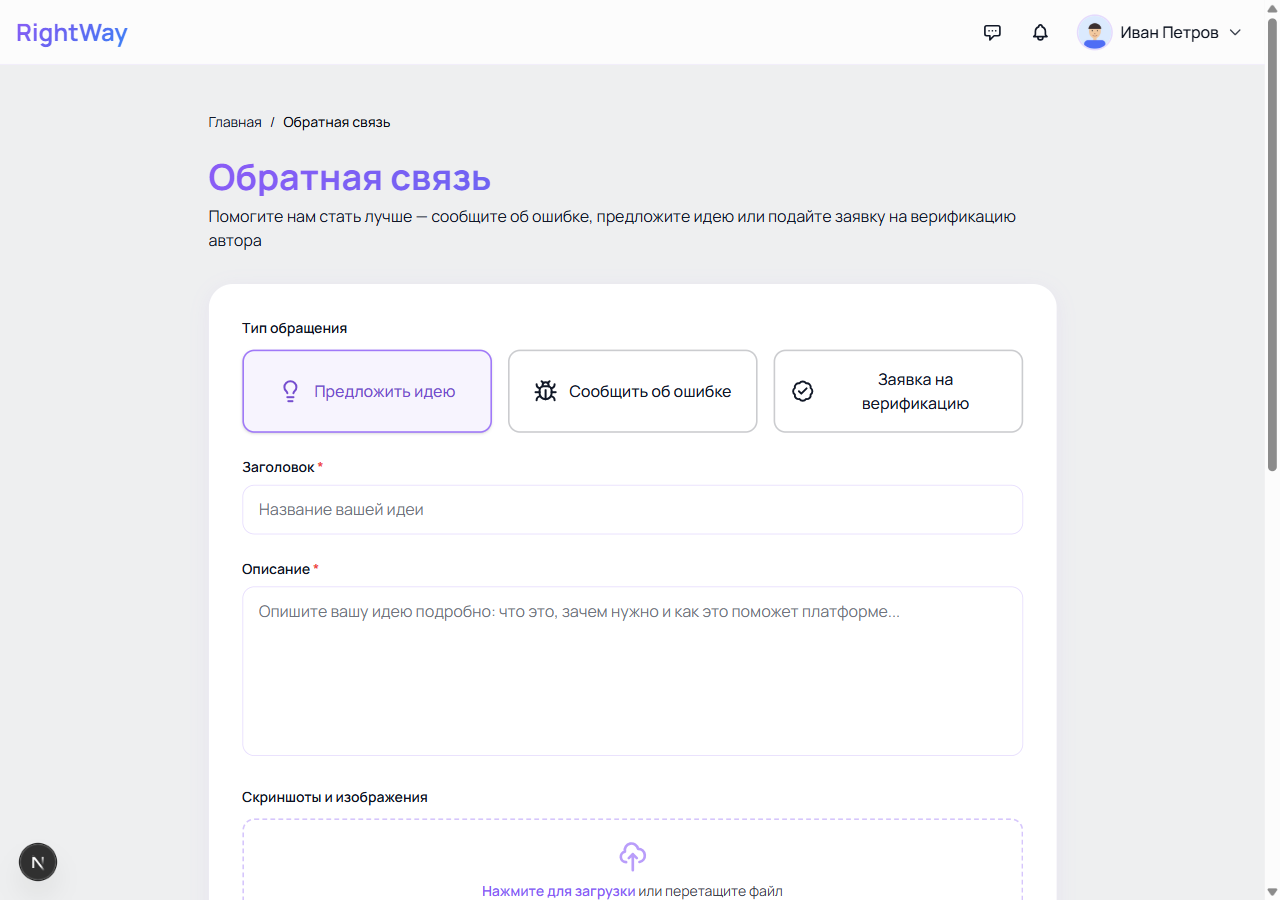
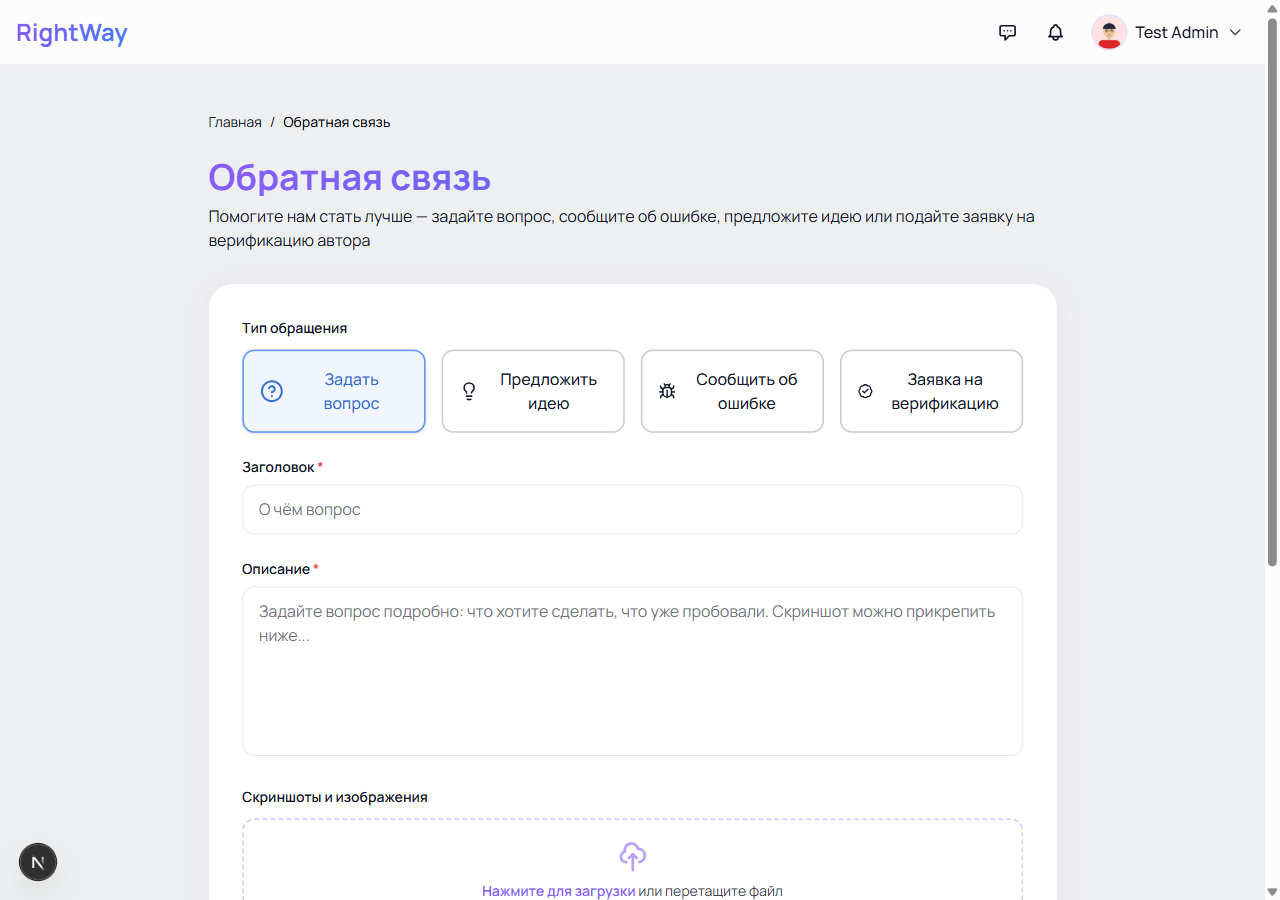
Новый тип обращения «Вопрос»: 4-я кнопка в /feedback (?type=question), бейдж в админке (blueFill), миграция feedback_type_check, сценарий «Задать вопрос» в Справочнике + пересняты скрины формы

diff --git a/app/feedback/page.tsx b/app/feedback/page.tsx
@@ -10,7 +10,7 @@ import { Button } from '@/components/ui/Button'
 import { Badge } from '@/components/ui/Badge'
 import { Input, Textarea, Label } from '@/components/ui/Input'
 import type { BadgeProps } from '@/components/ui/Badge'
-import { BadgeCheck, Bug, Lightbulb, Pencil, Trash2 } from 'lucide-react'
+import { BadgeCheck, Bug, HelpCircle, Lightbulb, Pencil, Trash2 } from 'lucide-react'
 import { Card } from '@/components/ui/Card'
 
 // Статусы и подписи — как в админке (/admin/feedback), чтобы пользователь
@@ -26,10 +26,11 @@ const TYPE_META: Record<string, { icon: React.ReactNode; label: string }> = {
   bug: { icon: <Bug className="w-4 h-4" />, label: 'Ошибка' },
   feature: { icon: <Lightbulb className="w-4 h-4" />, label: 'Идея' },
   verification: { icon: <BadgeCheck className="w-4 h-4" />, label: 'Заявка на верификацию' },
+  question: { icon: <HelpCircle className="w-4 h-4" />, label: 'Вопрос' },
 }
 
 export default function FeedbackPage() {
-  const [type, setType] = useState<'bug' | 'feature' | 'verification'>('feature')
+  const [type, setType] = useState<'bug' | 'feature' | 'verification' | 'question'>('feature')
   const [title, setTitle] = useState('')
   const [description, setDescription] = useState('')
   const [images, setImages] = useState<string[]>([])
@@ -69,7 +70,7 @@ export default function FeedbackPage() {
       // Предвыбор типа из ссылки вида /feedback?type=verification
       // (кнопка «Подать заявку» из кабинета автора ведёт сюда)
       const typeParam = new URLSearchParams(window.location.search).get('type')
-      if (typeParam === 'bug' || typeParam === 'feature' || typeParam === 'verification') {
+      if (typeParam === 'bug' || typeParam === 'feature' || typeParam === 'verification' || typeParam === 'question') {
         setType(typeParam)
       }
 
@@ -278,7 +279,7 @@ export default function FeedbackPage() {
           Обратная связь
         </h1>
         <p className="text-gray-600">
-          Помогите нам стать лучше — сообщите об ошибке, предложите идею или подайте заявку на верификацию автора
+          Помогите нам стать лучше — задайте вопрос, сообщите об ошибке, предложите идею или подайте заявку на верификацию автора
         </p>
       </div>
 
@@ -298,7 +299,19 @@ export default function FeedbackPage() {
             <label className="block text-sm font-semibold text-gray-700 mb-3">
               Тип обращения
             </label>
-            <div className="grid grid-cols-1 sm:grid-cols-3 gap-4">
+            <div className="grid grid-cols-1 sm:grid-cols-2 lg:grid-cols-4 gap-4">
+              <button
+                type="button"
+                onClick={() => setType('question')}
+                className={`px-4 py-4 rounded-xl border-2 transition-colors flex items-center justify-center gap-3 font-medium ${
+                  type === 'question'
+                    ? 'border-blue-500 bg-blue-50 text-blue-700 shadow-sm'
+                    : 'border-gray-200 text-gray-600 hover:border-blue-300 hover:bg-blue-50/50'
+                }`}
+              >
+                <HelpCircle className="w-6 h-6" />
+                <span>Задать вопрос</span>
+              </button>
               <button
                 type="button"
                 onClick={() => setType('feature')}
@@ -358,7 +371,9 @@ export default function FeedbackPage() {
                   ? 'Краткое описание ошибки'
                   : type === 'verification'
                     ? 'О себе в двух словах (имя, чем занимаетесь)'
-                    : 'Название вашей идеи'
+                    : type === 'question'
+                      ? 'О чём вопрос'
+                      : 'Название вашей идеи'
               }
             />
           </div>
@@ -380,7 +395,9 @@ export default function FeedbackPage() {
                   ? 'Опишите, что произошло, шаги для воспроизведения и ожидаемый результат...'
                   : type === 'verification'
                     ? 'Расскажите о себе: опыт, чем занимаетесь, почему обучаете. Приложите ссылки на ваши страницы (сайт, соцсети, портфолио) — по ним админ проверит заявку. Можно прикрепить скриншоты...'
-                    : 'Опишите вашу идею подробно: что это, зачем нужно и как это поможет платформе...'
+                    : type === 'question'
+                      ? 'Задайте вопрос подробно: что хотите сделать, что уже пробовали. Скриншот можно прикрепить ниже...'
+                      : 'Опишите вашу идею подробно: что это, зачем нужно и как это поможет платформе...'
               }
               className="resize-none"
             />

diff --git a/content/help/feedback.tsx b/content/help/feedback.tsx
@@ -5,16 +5,18 @@ export default function FeedbackHelp() {
   return (
     <>
       <p className="text-sm text-gray-600 dark:text-gray-300">
-        Здесь вы пишете в поддержку: сообщить о баге, предложить идею или
-        подать заявку на верификацию автора.
+        Здесь вы пишете в поддержку: задать вопрос, сообщить о баге,
+        предложить идею или подать заявку на верификацию автора.
       </p>
       <Shot id="feedback" caption="Форма обращения и «Мои обращения»" />
       <H>Что здесь можно сделать</H>
       <List
         items={[
           <>
-            Отправить обращение: тип (<b>ошибка</b> / <b>идея</b> /{" "}
-            <b>заявка на верификацию</b>), тема, описание, до 5 скриншотов.
+            Отправить обращение одного из четырёх типов:{" "}
+            <b>задать вопрос</b>, <b>сообщить об ошибке</b>,{" "}
+            <b>предложить идею</b> или <b>заявка на верификацию</b>. К
+            обращению прилагается описание и до 5 скриншотов.
           </>,
           <>
             <b>«Мои обращения»</b> под формой — история: статус каждого
@@ -29,6 +31,27 @@ export default function FeedbackHelp() {
         ]}
       />
       <H>Частые сценарии</H>
+      <H>Задать вопрос</H>
+      <Steps
+        items={[
+          <>
+            Нажмите кнопку <b>«Задать вопрос»</b> — она первая слева, с иконкой
+            знака вопроса.
+          </>,
+          <>
+            В поле <b>«Заголовок»</b> напишите, о чём вопрос: «Как загрузить
+            обложку курса?».
+          </>,
+          <>
+            В поле <b>«Описание»</b> — сам вопрос: что хотите сделать и что уже
+            пробовали. Скриншот можно прикрепить ниже (до 5 картинок).
+          </>,
+          <>
+            Нажмите <b>«Отправить обращение»</b>. Ответ поддержки появится в{" "}
+            <b>«Моих обращениях»</b> фиолетовой плашкой «Ответ поддержки».
+          </>,
+        ]}
+      />
       <H>Сообщить об ошибке</H>
       <Steps
         items={[
@@ -42,7 +65,7 @@ export default function FeedbackHelp() {
             ),
             shot: "feedback-form",
             shotCaption:
-              "Три кнопки типа обращения — «Сообщить об ошибке» посередине",
+              "Четыре кнопки типа обращения — «Сообщить об ошибке» вторая слева",
           },
           <>
             В поле <b>«Заголовок»</b> напишите коротко, что сломалось: «Не

diff --git a/app/admin/feedback/page.tsx b/app/admin/feedback/page.tsx
@@ -6,7 +6,7 @@ import { updateFeedbackStatus, updateVerificationFeedback, bulkUpdateFeedbackSta
 import Link from 'next/link'
 import Image from 'next/image'
 import { useToast } from '@/components/Toast'
-import { BadgeCheck, Bug, ClipboardList, Lightbulb, Paperclip } from 'lucide-react'
+import { BadgeCheck, Bug, ClipboardList, HelpCircle, Lightbulb, Paperclip } from 'lucide-react'
 import { Badge, BadgeProps } from '@/components/ui/Badge'
 import { Textarea } from '@/components/ui/Input'
 
@@ -151,7 +151,7 @@ export default function AdminFeedbackPage() {
     const rows = filteredFeedbacks.map(f => [
       f.id,
       f.user_name,
-      f.type === 'bug' ? 'Ошибка' : f.type === 'verification' ? 'Заявка на верификацию' : 'Идея',
+      f.type === 'bug' ? 'Ошибка' : f.type === 'verification' ? 'Заявка на верификацию' : f.type === 'question' ? 'Вопрос' : 'Идея',
       f.title,
       f.description,
       getStatusText(f.status),
@@ -195,6 +195,7 @@ export default function AdminFeedbackPage() {
     bug: { label: 'Ошибка', icon: <Bug className="w-3.5 h-3.5" strokeWidth={1.5} />, variant: 'red', fillVariant: 'redFill' },
     feature: { label: 'Идея', icon: <Lightbulb className="w-3.5 h-3.5" strokeWidth={1.5} />, variant: 'purple', fillVariant: 'purpleFill' },
     verification: { label: 'Заявка', icon: <BadgeCheck className="w-3.5 h-3.5" strokeWidth={1.5} />, variant: 'green', fillVariant: 'greenFill' },
+    question: { label: 'Вопрос', icon: <HelpCircle className="w-3.5 h-3.5" strokeWidth={1.5} />, variant: 'blue', fillVariant: 'blueFill' },
   }
   const getTypeMeta = (t: string) => TYPE_BADGE_META[t] || TYPE_BADGE_META.feature
 

diff --git a/app/help/page.tsx b/app/help/page.tsx
@@ -99,14 +99,14 @@ export default async function HelpPage({
       </article>
 
       <p className="mt-6 text-xs text-gray-400 text-center">
-        Не нашли ответ? Напишите нам через{" "}
+        Не нашли ответ? Задайте вопрос через{" "}
         <Link
-          href="/feedback"
+          href="/feedback?type=question"
           className="text-purple-600 dark:text-purple-300 hover:underline"
         >
           форму обращений
-        </Link>
-        .
+        </Link>{" "}
+        — тип «Вопрос» будет выбран сразу.
       </p>
     </div>
   );

diff --git a/components/ui/Badge.tsx b/components/ui/Badge.tsx
@@ -9,6 +9,7 @@ const COLORS = {
   yellow: 'border border-yellow-200 bg-yellow-50 text-yellow-700',
   gray: 'border border-gray-200 bg-gray-50 text-gray-600',
   purpleFill: 'bg-purple-100 text-purple-700',
+  blueFill: 'bg-blue-100 text-blue-700',
   greenFill: 'bg-green-100 text-green-700',
   grayFill: 'bg-gray-100 text-gray-700',
   redFill: 'bg-red-100 text-red-700',

diff --git a/app/actions/feedbackActions.ts b/app/actions/feedbackActions.ts
@@ -15,7 +15,7 @@ type ActionResult = { ok: true } | { ok: false; error: string }
 export async function updateMyFeedback(
   id: string,
   fields: {
-    type: 'bug' | 'feature' | 'verification'
+    type: 'bug' | 'feature' | 'verification' | 'question'
     title: string
     description: string
     images: string[] | null

diff --git a/docs/progress.md b/docs/progress.md
@@ -11,6 +11,7 @@
 - **Хвост закрыт: планировщик работает** — урок агента «Первые клиенты коуча» опубликовался сам 09.09 в 08:00 МСК (publish_at + pg_cron, проверено в БД).
 - **Регресс-тест всего функционала — 28/28 ✅** (5 блоков: гость / студент / наставник / админ / мобильный+тёмная тема). Подтверждены: фикс фильтра запрещённых слов (ложных 422 больше нет), undo-toast «Вернуть» у удалённого сообщения, двухшаговое удаление урока, переключатель приватности (is_public в БД в обе стороны), тёмная тема без белых блоков, мобильный без горизонтального скролла. Две косметические наблюдения (не баги): счётчик «подписчик» обновляется только после перезагрузки; hydration-варнинг /register от расширения браузера (wfd-id). Отчёт: D:\Projects\tmp\ui-tests\2026-09-09-regression\report.html.
 - **Справочник /help: «Частые сценарии» переписаны по-детски подробно** (по шагам, с названиями кнопок) в 7 разделах: lessons (написать урок, дать по ссылке, убрать из продажи, лайк/избранное), cabinet, courses, messages, profile, feedback, moderation. Компонент Steps в content/help/ui.tsx расширен (не ломая старый API): шаг может нести свой скриншот (`{text, shot, shotCaption}`). Новые скрины: help-lesson-social/lesson-editor/feedback-form/profile-settings/chat.png. Все 6 разделов проверены в браузере (модерация — под админом, скрыта от остальных как задумано); поправлена JSX-ловушка со схлопнутым пробелом в cabinet.tsx.
+- **Новый тип обращения «Вопрос»** (находка Анатолия: «просто вопрос» не помещался в 3 типа): 4-я кнопка в /feedback (синяя, HelpCircle, предвыбор из `?type=question`), плейсхолдеры под вопрос, бейдж «Вопрос» в админке (добавлен blueFill в палитру Badge), метка в JSON/CSV, ссылка из Справочника «Не нашли ответ?» → `/feedback?type=question`. Миграция feedback_type_check применена Анатолием (docs/migrations/2026-09-09-feedback-question-type.sql). E2e проверено: отправка → метка «Вопрос» в «Моих обращениях» → синий бейдж в админке → удаление (записи в БД нет). Спека feedback.md + Справочник (сценарий «Задать вопрос») + пересняты help-feedback.png / help-feedback-form.png.
 
 ### Не делаем / открытые вопросы
 
